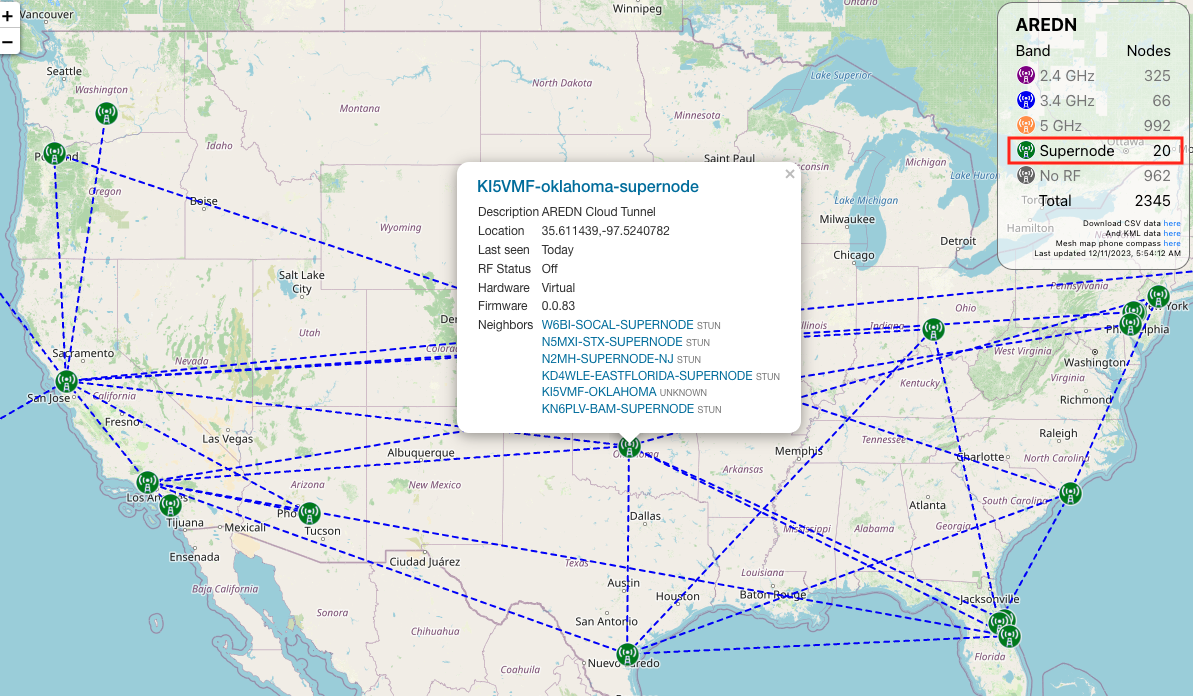
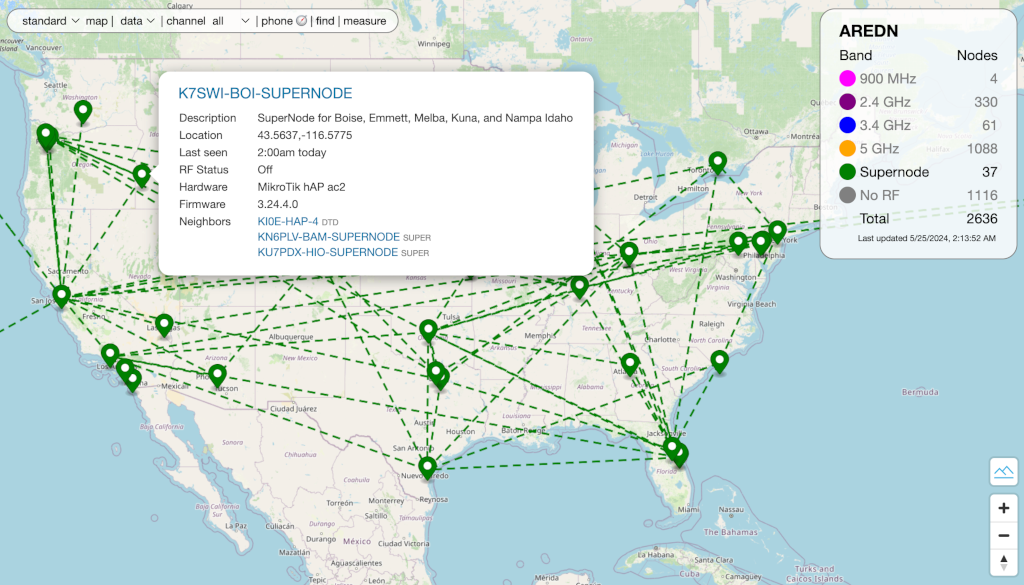
update Supernode how-to article (#356)
* update supernode how-to

* scale new screenshot

diff --git a/arednHow-toGuides/supernodes.rst b/arednHow-toGuides/supernodes.rst
@@ -2,7 +2,9 @@
 Configuring a Supernode
 =======================
 
-**Supernodes** are a way to link multiple mesh island networks in a safe and efficient way. A Supernode network is a high-level mesh network --- **super** meaning *"above or higher."* The Supernode network sits above the isolated mesh networks and provides connectivity without increasing the routing load on the local networks. Supernodes do not merge networks into one big mesh but instead isolate connections between discrete meshes. For further information see the *Supernode Architecture* section of the **Network Topologies** topic in the **Network Design Guide**.
+*Contributor: Tim Wilkinson KN6PLV*
+
+**Supernodes** are a way to link multiple mesh island networks in a safe and efficient way. A Supernode network is a high-level mesh network --- **super** meaning *"above or higher."* The Supernode network sits above the individual mesh networks and provides connectivity without increasing the routing load on the local networks. Supernodes do not merge networks into one big mesh but instead isolate connections between discrete meshes. For further information see the *Supernode Architecture* section of the **Network Topologies** topic in the **Network Design Guide**.
 
 .. image:: ../_images/supernode-mesh.png
    :alt: Supernode mesh diagram
@@ -15,19 +17,18 @@ Criteria for Deploying a Supernode
 
 Before you consider deploying a Supernode, make sure you can adequately support the level of uptime that is desired for the Cloud Mesh network.
 
-1. Fast unlimited Internet connection. Fiber is preferable. Low latency between Supernodes is important as is available bandwidth. A Supernode can easily transfer 1 teraByte of data every month, so an unmetered connection is best.
+1. **Fast unlimited Internet connection.** Fiber is preferable. Low latency between Supernodes is important as is available bandwidth. A Supernode can easily transfer 1 teraByte of data every month, so an unmetered connection is best.
 
-2. Uptime stability. The Supernode should be up 99.999% of the time. The location should ideally have backup power and network connectivity, both to the Internet and to the local mesh.
+2. **Uptime stability.** The Supernode should be up 99.999% of the time. The location should ideally have backup power and network connectivity, both to the Internet and to the local mesh.
 
-3. Solid local mesh connectivity. As this is the path for all traffic between your local mesh and every other mesh, the connection to your mesh should be at a high-bandwidth location. If you are deploying a Supernode with any sort of high-bandwidth backbone, the Supernode should be connected to the backbone.
-
+3. **Solid local mesh connectivity.** As this is the path for all traffic between your local mesh and every other mesh, the connection to your mesh should be at a high-bandwidth location. If you are deploying a Supernode with any sort of high-bandwidth backbone, the Supernode should be connected to the backbone.
 
 Coordinating Supernode Deployments
 ----------------------------------
 
 Because Supernodes use the `OLSR (Optimized Link State Routing) <https://en.wikipedia.org/wiki/Optimized_Link_State_Routing_Protocol>`_ protocol, multiple Supernodes can be connected to each other, each operating as a peer of the others. A local network can be connected to multiple Supernodes, but a single Supernode should only be connected to a single local network, although it may be connected at multiple points.
 
-By having only a single local network connected to each Supernode, the owners of each local network are responsible for their own Supernodes. This simplifies management and maintenance. There is also some fault isolation as a failed Supernode will only affect the link to one local network.
+By having each Supernode connected to only a single local network, the owners of each local network are responsible for their own Supernodes. This simplifies management and maintenance. There is also some fault isolation as a failed Supernode will only impact the one local network to which it is connected.
 
 The number of messages a Supernode receives will scale linearly with the total number of nodes in all connected local networks. A Supernode receives a management message from every node in the network (all nodes in all local networks) every 5 seconds. With a typical message size of 100 bytes, a Supernode receives about 20 bytes per second per node. At the time of initial testing, there were 4,300 AREDN |trade| nodes registered world-wide, so a Supernode for this network would receive ``84 KB/s`` or ``0.7 Mb/s``, which is a manageable bandwidth requirement.
 
@@ -42,7 +43,7 @@ As more Supernodes are deployed linking more local networks, the overall perform
 Setting up a Supernode
 ----------------------
 
-Typically a Supernode is configured on a dedicated *Mikrotik hAP ac2*. Its sole task is to serve as a node on the Supernode network. The local sub-mesh network is linked to the Supernode using a :abbr:`DtD (Device to Device)` link on one of its LAN ports which is configured for *dtdlink* on the *Advanced Network* display (Port 5 by default).
+Typically a Supernode is configured on a dedicated *Mikrotik hAP ac2*. Its sole task is to serve as a node on the Supernode network. The local network is linked to the Supernode using a :abbr:`DtD (Device to Device)` link on one of its LAN ports which is configured for *dtdlink* on the *Advanced Network* display (Port 5 by default).
 
 .. image:: _images/supernode-localDTD.png
    :alt: DtD Link Example
@@ -52,7 +53,7 @@ Typically a Supernode is configured on a dedicated *Mikrotik hAP ac2*. Its sole 
 
 The following steps are required to configure a Supernode.
 
-#. Start with a **Mikrotik hAP ac2** device that is newly flashed with the latest Nightly Build (≥ 20230930). If the node has been previously configured or used beforehand, please reflash and start fresh in order to avoid problems later in the setup process.
+#. Start with a **Mikrotik hAP ac2** device that is newly flashed with the latest Nightly Build. If the node has been previously configured or used beforehand, please reflash and start fresh in order to avoid problems later in the setup process.
 
 #. Configure the Supernode with a nodename prefixed with your callsign followed by a location identifier as well as the word "SUPERNODE." For example you could use ``AB2CD-NYC-SUPERNODE`` or ``AB6CD-LAX-SUPERNODE``
 
@@ -87,13 +88,13 @@ Your node should now be functioning as a Supernode. To validate this you can do 
     config supernode
 	    option enable '1'
 
-If somehow you do not see these lines, please start this process again from the beginning and make sure to follow every step in the sequence.
+If you do not see these lines, please start this process again from the beginning and make sure to follow every step in the sequence.
 
 Things to Avoid
   Here are several things **NOT** to do when configuring your Supernode.
 
-  - Your Supernode must **not** use any Cross-links (Xlinks) to other nodes
-  - Your Supernode must **not** have tunnel links to any non-Supernode devices
-  - Your Supernode must **not** have its *Mesh RF* interface ``enabled`` -- *Mesh RF* must be ``disabled`` as noted above
+  - Your Supernode must **not** use any Cross-links (Xlinks) to other nodes.
+  - Your Supernode must **not** have tunnel links to any non-Supernode devices.
+  - Your Supernode must **not** have its *Mesh RF* interface ``enabled`.` *Mesh RF* must be ``disabled`` as noted above.
 
-Before proceeding, make sure all the previous steps have been completed successfully. Now you should be able to connect to another Supernode using a tunnel. The easiest way to do this is to ask another Supernode owner for a set of tunnel client credentials. Your node can use either a client or server tunnel link. Supernode tunnels use port ``5526`` rather than the usual tunnel port of ``5525``. Supernode owners can be identified from the `Supernode Network Map <https://arednmap.xojs.org>`_
+Before proceeding, make sure all the previous steps have been completed successfully. Now you should be able to connect to another Supernode using a tunnel. The easiest way to do this is to ask another Supernode owner for a set of tunnel client credentials. Your node can use either a client or server tunnel link. Supernode owners can be identified from the `Supernode Network Map <https://worldmap.arednmesh.org/>`_
